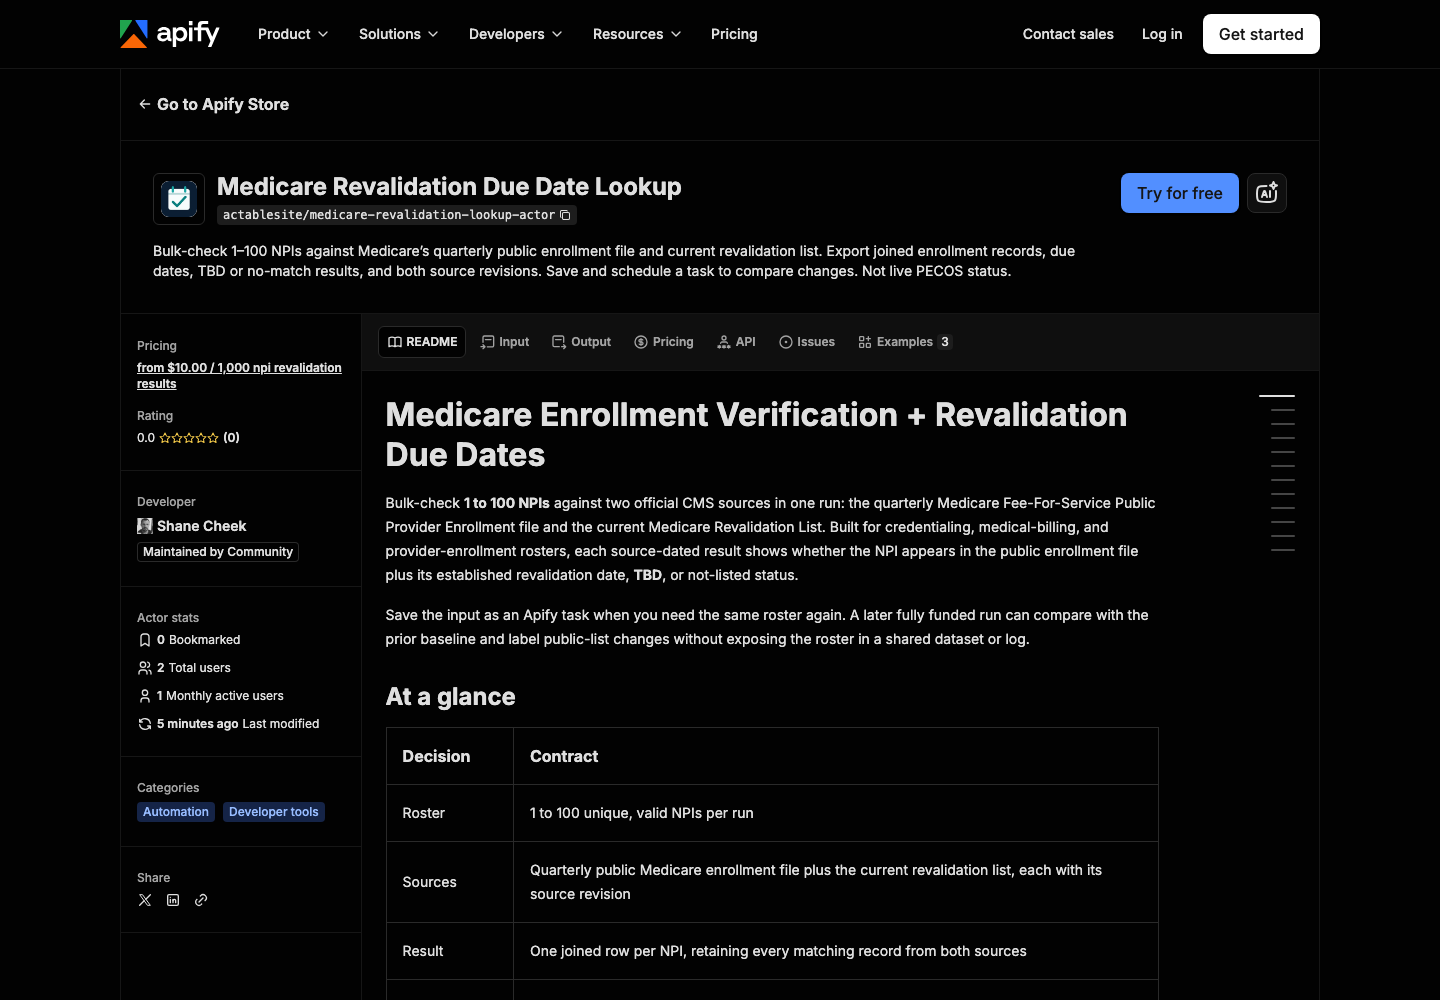
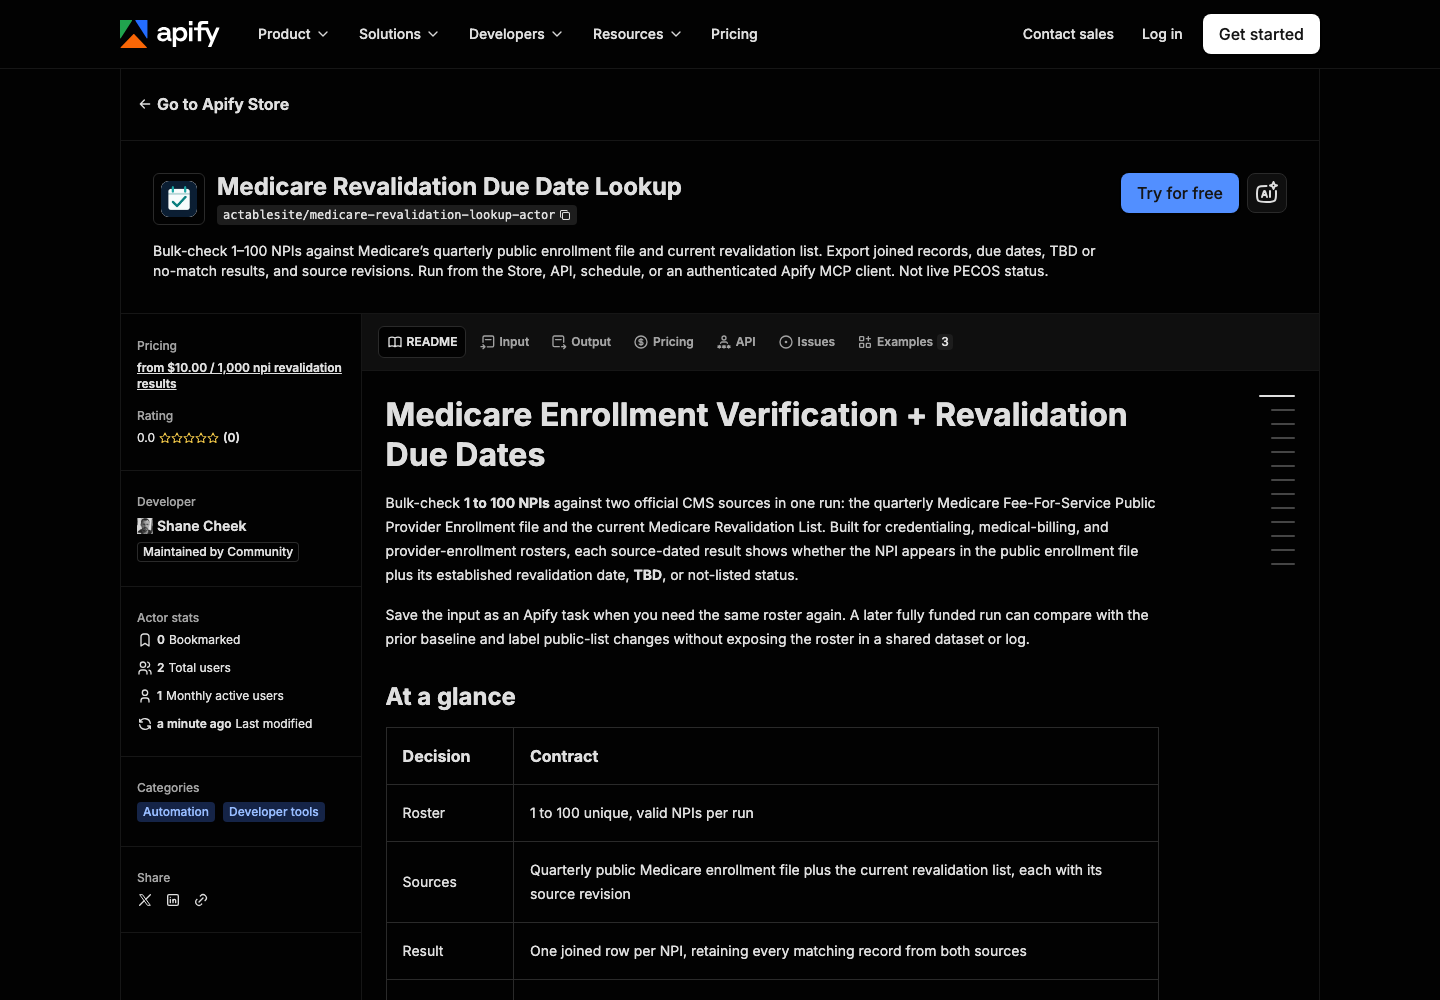
Record live MCP listing review

Changed region(s): [[0.0938, 0.248, 0.75, 0.279], [0.125, 0.713, 0.2188, 0.744]]

diff --git a/design/listing-review.md b/design/listing-review.md
@@ -1,34 +1,34 @@
 # Apify Store listing review
 
-- Reviewed source revision: `ca2195d82641902267908fc85760e5a218a9f32d`
-- Reviewed build: `0.0.7`
+- Reviewed source revision: `a67426ba5f8ce99cc7baa008b1a4f89c19f7a67e`
+- Reviewed build: `0.0.8`
 - Public listing: https://apify.com/actablesite/medicare-revalidation-lookup-actor
 - Public recurring example: https://apify.com/actablesite/medicare-revalidation-lookup-actor/examples/monthly-medicare-revalidation-roster-comparison
 - Review date: 2026-07-17 America/Los_Angeles
 - Category: paid product / single-offer marketplace listing
 - Audience: Medicare credentialing teams, provider enrollment and RCM operators, and developers checking NPI rosters
-- Primary conversion: start a paid Actor run, then save and schedule repeat runs for the same roster
+- Primary conversion: start a paid Actor run from the Store or an authenticated Apify MCP client, then save and schedule repeat runs for the same roster
 - Conversion-quality metric: successful joined enrollment and revalidation results, visible source revisions, and a baseline that advances only after a fully funded comparison run, without implying live PECOS status or treating an additional-NPI no-match as conclusive
 
 ## Evidence classification
 
-- Measured: build `0.0.7` returned two joined rows, displayed `public_file_match` in the enrollment column, reported exactly two delivered results, and showed `$0.000` for the owner verification run. The public listing showed the exact revalidation title, joined-source explanation, `Try for free` action, exact unit price, and source/price/boundary table on desktop and mobile. The public Actor API reported pay-per-event pricing, buyer-paid platform usage, and a primary `revalidation-result` event priced at $0.01.
+- Measured: build `0.0.8` completed from the reviewed source revision and became the public `latest` build. The public Actor API exposes the MCP-ready listing description, pay-per-event pricing, buyer-paid platform usage, and a primary `revalidation-result` event priced at $0.01. Apify's anonymous MCP `fetch-actor-details` tool resolves the exact Actor with its schema and structured output; running the Actor-only MCP endpoint correctly requires buyer authentication. Earlier owner verification returned two joined rows and exactly two delivered results, but there is still no non-owner paid result.
 - Standards: the decision path names both CMS sources, explains enrollment and revalidation result states, states the 100-NPI limit, distinguishes public data from live PECOS case status, and warns that a no-match is inconclusive for an additional NPI on a multiple-NPI enrollment.
 - Observed pattern: comparable Apify data Actors lead with a specific job, a direct run action, unit pricing, structured output, and operational limits.
-- Hypothesis: preserving the exact revalidation search title while adding joined public-enrollment evidence, transparent per-result pricing, and a saved-roster comparison path will convert more qualified searches and produce more repeat runs than a broader provider-data scraper promise.
+- Hypothesis: preserving the exact revalidation search title while adding joined public-enrollment evidence, transparent per-result pricing, a direct authenticated MCP path, and a saved-roster comparison path will convert more qualified searches and produce more repeat runs than a broader provider-data scraper promise.
 
 ## Rendered QA
 
 ### Desktop — 1440 x 1000
 
-- Pass: the listing first screen identifies the job, both CMS sources, 100-NPI scope, PECOS limitation, exact price, and primary action.
-- Pass: the README decision path moves from joined result value to public examples, repeat comparison, price and limits, enrollment/revalidation meanings, source reliability, and the optional monitoring handoff.
+- Pass: the listing first screen identifies the job, both CMS sources, 100-NPI scope, PECOS limitation, exact price, primary action, and authenticated Apify MCP availability.
+- Pass: the README decision path moves from joined result value to the direct MCP endpoint, buyer-authentication and charge boundary, public examples, repeat comparison, price and limits, result meanings, source reliability, and the optional monitoring handoff.
 - Pass: the platform layout presents developer identity, maintenance state, categories, usage statistics, and pricing without competing calls to action.
 - Pass: text, links, controls, and focusable navigation have readable contrast in Apify's dark theme.
 
 ### Mobile — 390 x 844
 
-- Pass: the listing title, Actor slug, primary action, joined-source product explanation, PECOS limitation, and pricing all appear in the first viewport.
+- Pass: the listing title, Actor slug, primary action, joined-source product explanation, authenticated MCP path, PECOS limitation, and pricing all appear in the first viewport.
 - Pass: the title and slug wrap without horizontal clipping; the action remains full-width and prominent.
 - Pass: the information hierarchy survives the single-column layout and the developer/maintenance labels remain legible.
 - Pass: measured document width equals the 390 px viewport, with no horizontal overflow.
@@ -37,4 +37,4 @@ Render evidence: `design/renders/apify-medicare-revalidation-store-desktop.png`,
 
 ## Decision
 
-Design-ready for public acquisition at build `0.0.7` and source `ca2195d82641902267908fc85760e5a218a9f32d`. No blocking visual, trust, accessibility, copy, or responsive findings remain. A source, README, pricing, input schema, example, or listing-metadata change invalidates this review and requires a fresh desktop/mobile check.
+Design-ready for public acquisition at build `0.0.8` and source `a67426ba5f8ce99cc7baa008b1a4f89c19f7a67e`. No blocking visual, trust, accessibility, copy, or responsive findings remain. Generic MCP search still does not surface the Actor in its first ten results, so the listing makes only the verified direct-endpoint claim. A source, README, pricing, input schema, example, or listing-metadata change invalidates this review and requires a fresh desktop/mobile check.